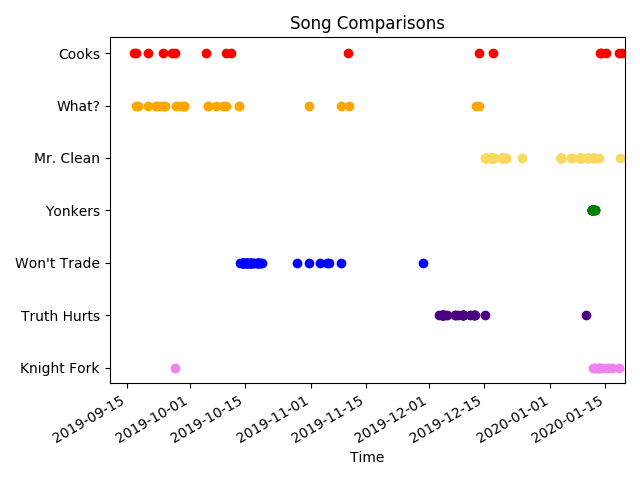
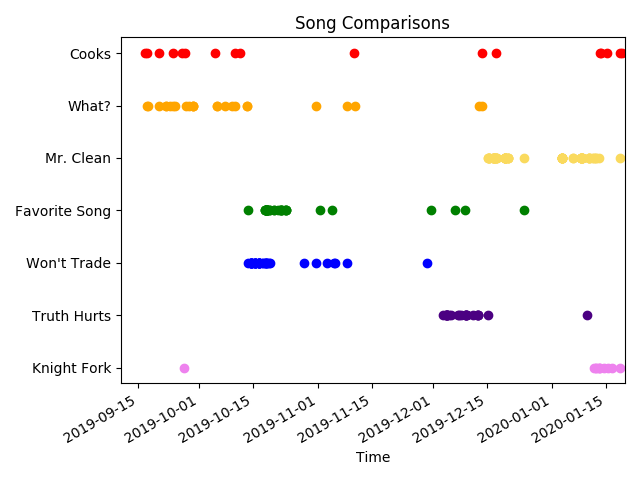
removed plotter; renamed playplot → plotter

diff --git a/plotter.py b/plotter.py
@@ -1,52 +1,62 @@
-from parser import parse_itunes_xml, get_vocal_tracks, get_action_items
+import json
+import os
 import matplotlib.pyplot as plt
-import datetime
-import numpy as np
-import math
+from datetime import datetime, date
+from pandas.plotting import register_matplotlib_converters
 
-plt.style.use("seaborn")
+register_matplotlib_converters()
+with open(os.path.join(os.path.dirname(__file__), "data", "log.txt"), "r") as lf: lines = [json.loads(l) for l in lf.readlines()]
+lines.sort(key=lambda l: l['skip_date'] if 'skip_date' in l else l['play_date_utc'])
 
-def artist_plot():
-    art = parse_itunes_xml("Artist")
-    artists = {}
-    for val in art:
-        if val["Artist"] in artists:
-            artists[val["Artist"]] += 1
-        else:
-            artists[val["Artist"]] = 1
+def std(date_string): return datetime.strptime(date_string, "%Y-%m-%dT%H:%M:%SZ")
+def track_events(name, artist): return [e for e in lines if e['name'] == name and e['artist'] == artist]
+def plot_track(name, artist):
+    tracks = track_events(name, artist)
 
-    sorted_artists = sorted(artists.items(), key=lambda v: int(v[1]), reverse=True)
-    print(sorted_artists)
+    dates_play = [std(d['play_date_utc']) for d in tracks if "play_count" in d]
+    dates_skip = [std(d['skip_date']) for d in tracks if "skip_count" in d]
 
+    fig, ax = plt.subplots()
 
-def play_plot():
-    arr = parse_itunes_xml("Play Count")
-    l = [int(x["Play Count"]) for x in arr]
+    plt.title(f"{name} by {artist}")
+    plt.xticks(rotation=45)
+    plt.xlabel("Time")
 
-    print(l)
+    ax.plot_date(dates_skip, ["Skip"]*len(dates_skip), color='b')
+    ax.plot_date(dates_play, ["Play"]*len(dates_play), color='r')
 
-    val_list = []
-    freq_list = []
+    ax.set_xlim([dates_play[0] if dates_play[0] < dates_skip[0] else dates_skip[0], datetime.today()])
 
-    count = 1
-
-    for val in range(1, len(l)):
-        if l[val] != l[val - 1] or val == len(l) - 1:
-            print(str(l[val - 1]) + ": " + str(count))
-            val_list.append(l[val - 1])
-            freq_list.append(count)
-            count = 1
-        else:
-            count+=1
-
-    plt.scatter(val_list, freq_list)
+    plt.gcf().autofmt_xdate()
     plt.show()
 
-def plot_actions():
-    played, skipped = get_action_items()
-    played.sort(key=lambda x: datetime.datetime.strptime(x['play_date_utc'], "%Y-%m-%dT%H:%M:%SZ").timestamp() + 19800)
-    skipped.sort(key=lambda x: datetime.datetime.strptime(x['skip_date'], "%Y-%m-%dT%H:%M:%SZ").timestamp() + 19800)
+def plot_tracks(*name_artist_pair):
+    name_artist_pair = name_artist_pair[::-1]
+    fig, ax = plt.subplots()
+    plt.title("Song Comparisons")
+    plt.xticks(rotation=45)
+    plt.xlabel("Time")
+    plots = []
+    colors = ['red', 'orange', '#FADA5e', 'green', 'blue', 'indigo', 'violet'][::-1]
 
-if __name__ == "__main__":
-    plot_actions()
-    pass
+    for idx, pair in enumerate(name_artist_pair):
+        tracks = track_events(pair[0], pair[1])
+        plays = [std(d['play_date_utc']) for d in tracks if "play_count" in d]
+        plots.append(ax.plot_date(plays, [pair[0]]*len(plays), color=colors[idx]))
+
+    ax.set_xlim(right=datetime.today())
+    plt.gcf().autofmt_xdate()
+    plt.show()
+    fig.savefig(os.path.join(os.path.dirname(__file__), "graphs", "song_comparisons.png"))
+
+
+plot_tracks(
+    ("Cooks", "Still Woozy"),
+    ("What?", "A Tribe Called Quest"),
+    ("Mr. Clean", "Yung Gravy"),
+    ("Favorite Song", "Chance the Rapper ft. Childish Gambino"),
+    ("Won't Trade", "Q-Tip"),
+    ("Truth Hurts", "Lizzo"),
+    ("Knight Fork", "Feed Me Jack")
+)
+

diff --git a/README.md b/README.md
@@ -3,6 +3,7 @@
 A collection of projects of varying size, all related to music files: lyric scraping, iTunes parsing/logging, Twitter lyric bots, and more! Everything is for personal use so a tad rough around the edges (and everywhere else):
 
 - Parser: Script to run through iTunes Library.xml file to load in song data, or query iTunes Library via Swift executable
+- Plotter: Matplotlib-based tool to do fun stuff with Logger data
 - Scraper: Lyric scraper from Genius to update lyric tag of all songs specified as having scrapable vocals (Vocal in comments)
 - Lyrical: Lyric grabber from random/specified songs
 	- LyricBot: Script used to post random lyrics to Twitter for various artist bots, using Genius/Google Doc/Sheets as source
